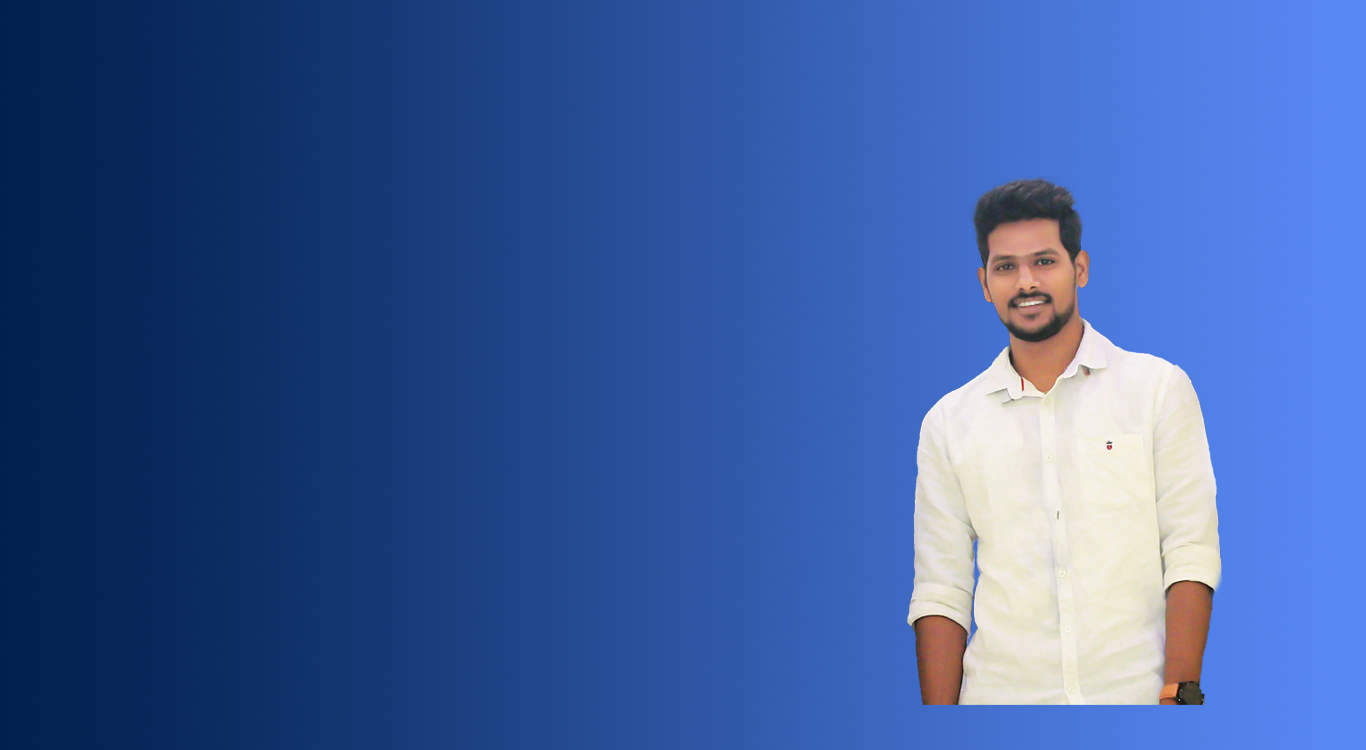
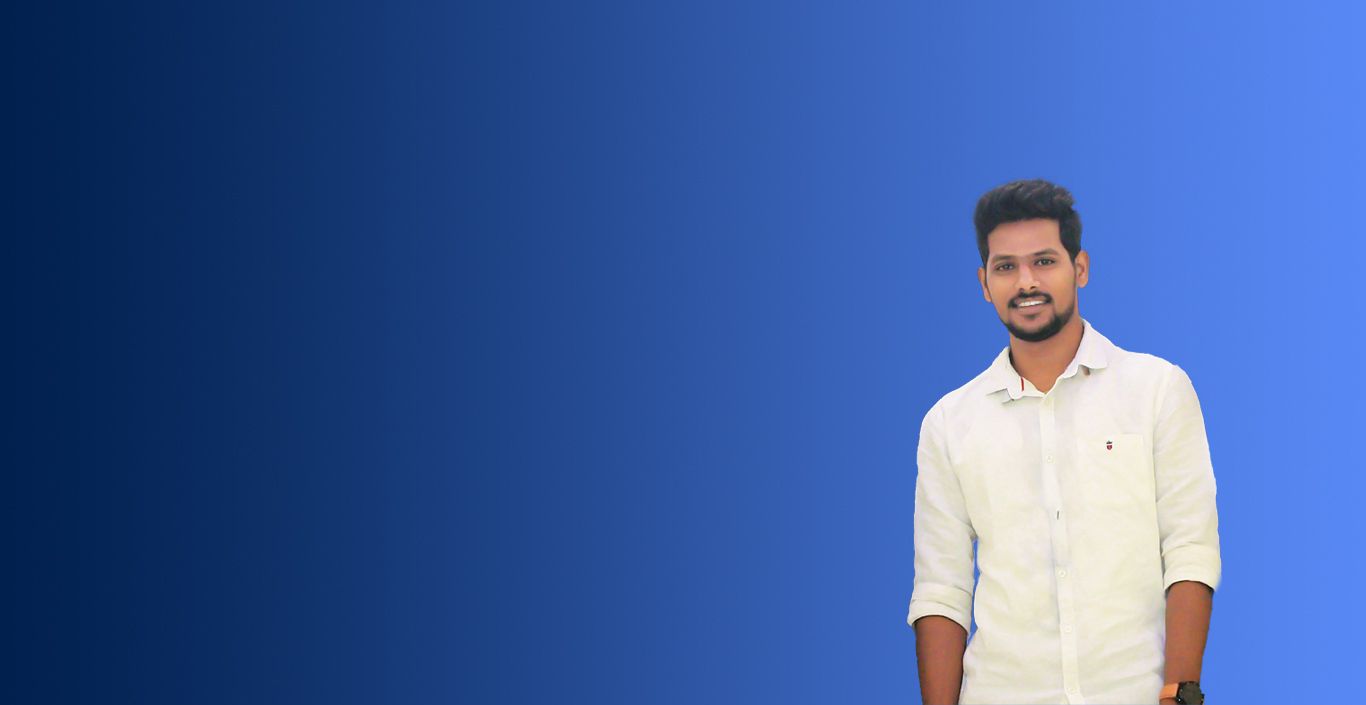
No repeat addted

Changed region(s): [[0.6457, 0.2184, 0.8917, 1.0]]

diff --git a/css/style.css b/css/style.css
@@ -305,8 +305,8 @@ hr {
 
 .intro {
 	width:100%;
-	position: relative;
-	background: url(../img/bgimg.jpg) center;
+	position:relative;
+	background: url(../img/bgimg.jpg) center no-repeat;
 }
 
 #intro.intro {
